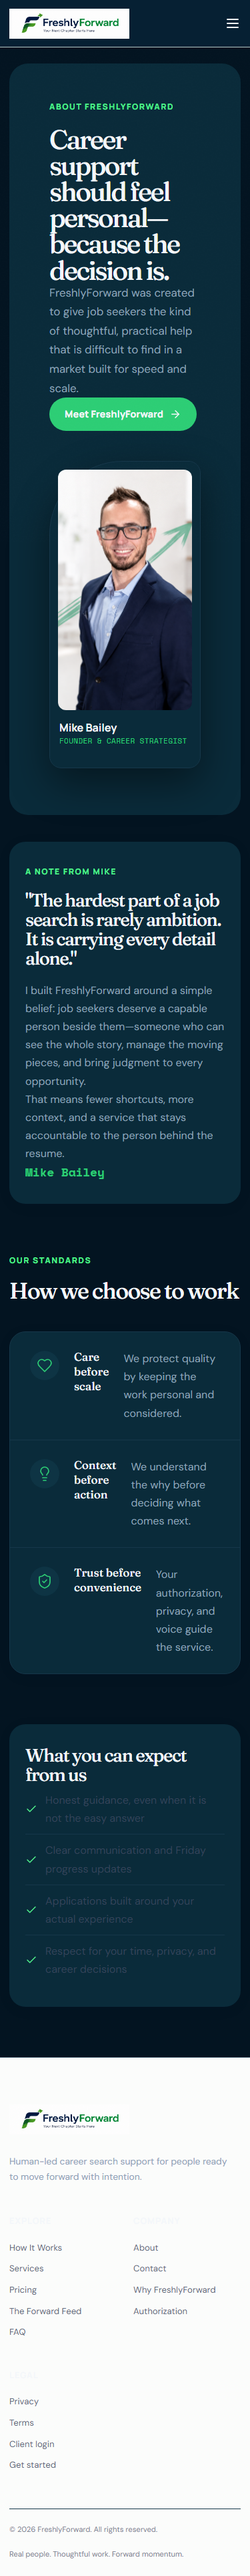
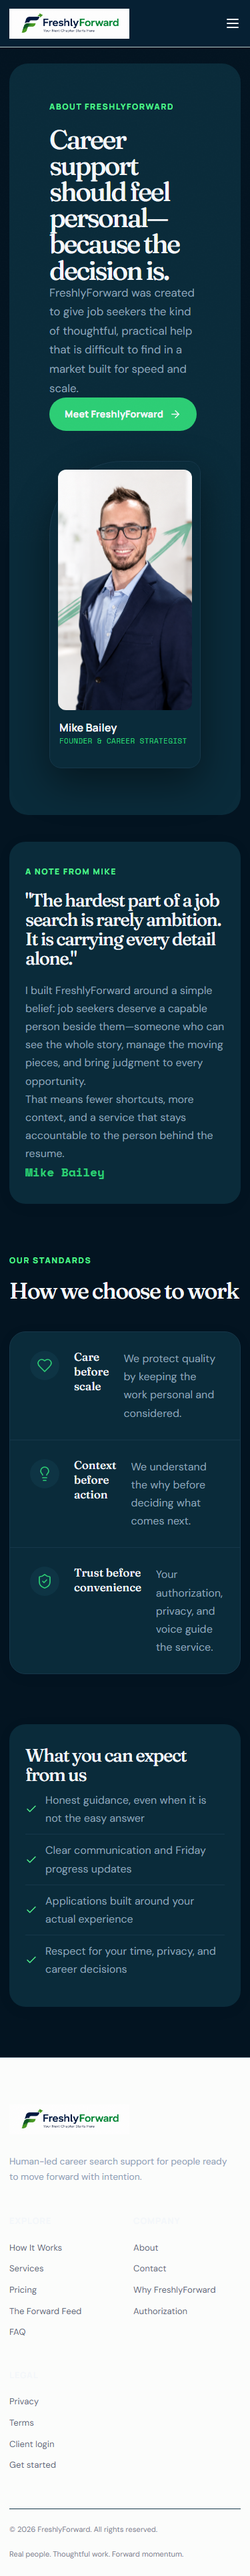
fix(design-system): correct dark-on-dark contrast bug in About page checklist text

Changed region(s): [[0.176, 0.7158, 0.528, 0.7469]]

diff --git a/src/index.css b/src/index.css
@@ -341,7 +341,7 @@ pricing-section { padding-bottom: 100px; }
 .values-grid svg { flex-shrink: 0; width: 44px; height: 44px; padding: 10px; box-sizing: border-box; border-radius: 9999px; margin-top: 2px; color: var(--green-dark); background: var(--mint); stroke-width: 1.7; }
 .about-checklist { margin-bottom: 100px; padding: 44px 50px; border-radius: 24px; color: var(--ink); background: var(--cream); box-shadow: 0 4px 24px rgba(7, 26, 49, .04); }
 .about-checklist h2 { font-size: 1.7rem; }
-.about-checklist p { display: flex; align-items: center; gap: 12px; padding: 10px 0; border-bottom: 1px solid var(--line); color: #35445a; }
+.about-checklist p { display: flex; align-items: center; gap: 12px; padding: 10px 0; border-bottom: 1px solid var(--line); color: var(--ink-soft); }
 .about-checklist p:last-child { border-bottom: 0; }
 .about-checklist svg { width: 18px; color: var(--green); }
 
